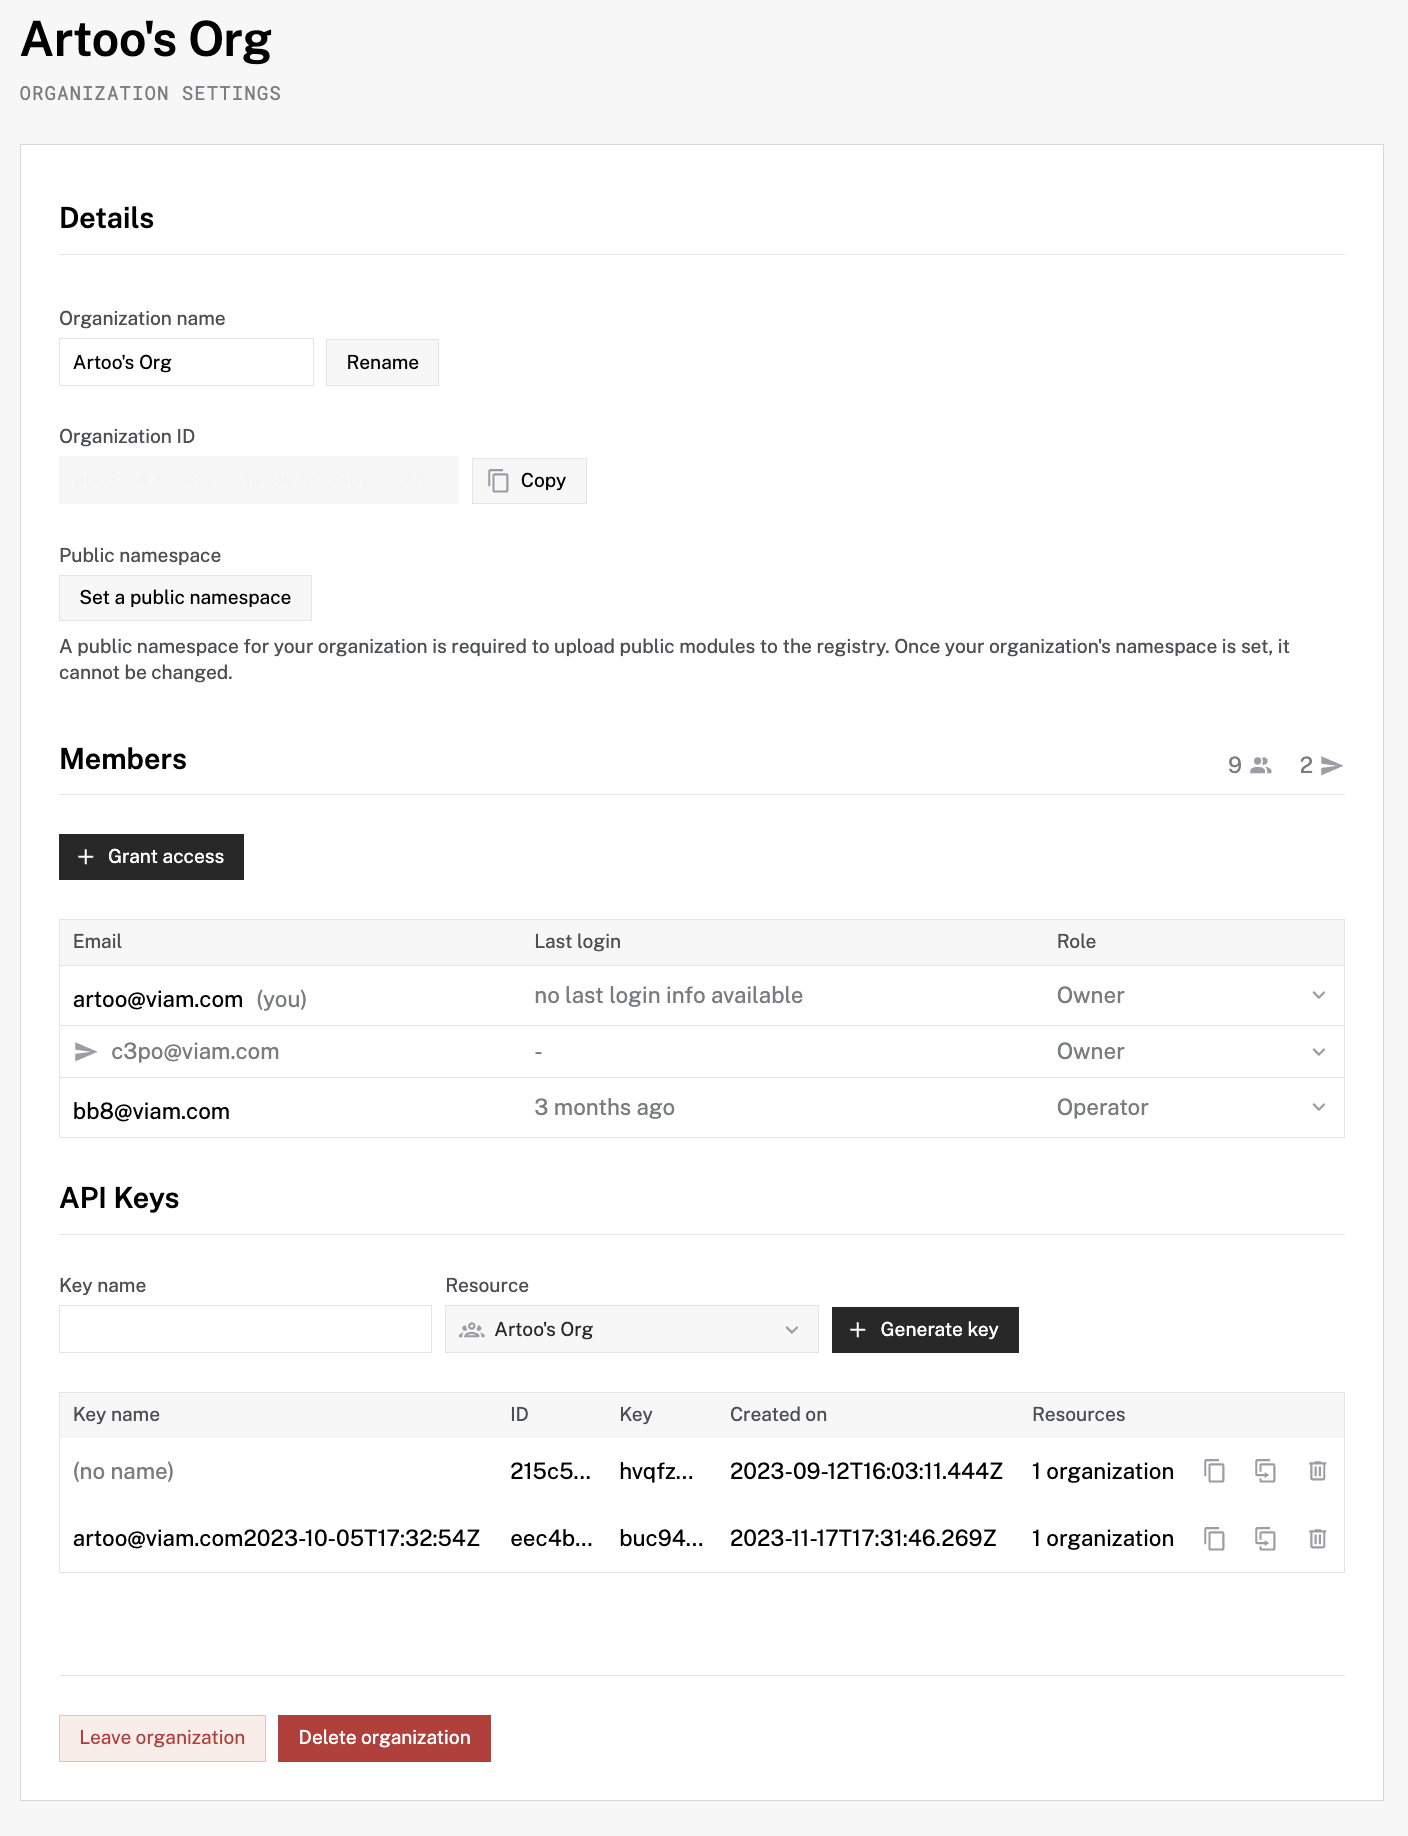
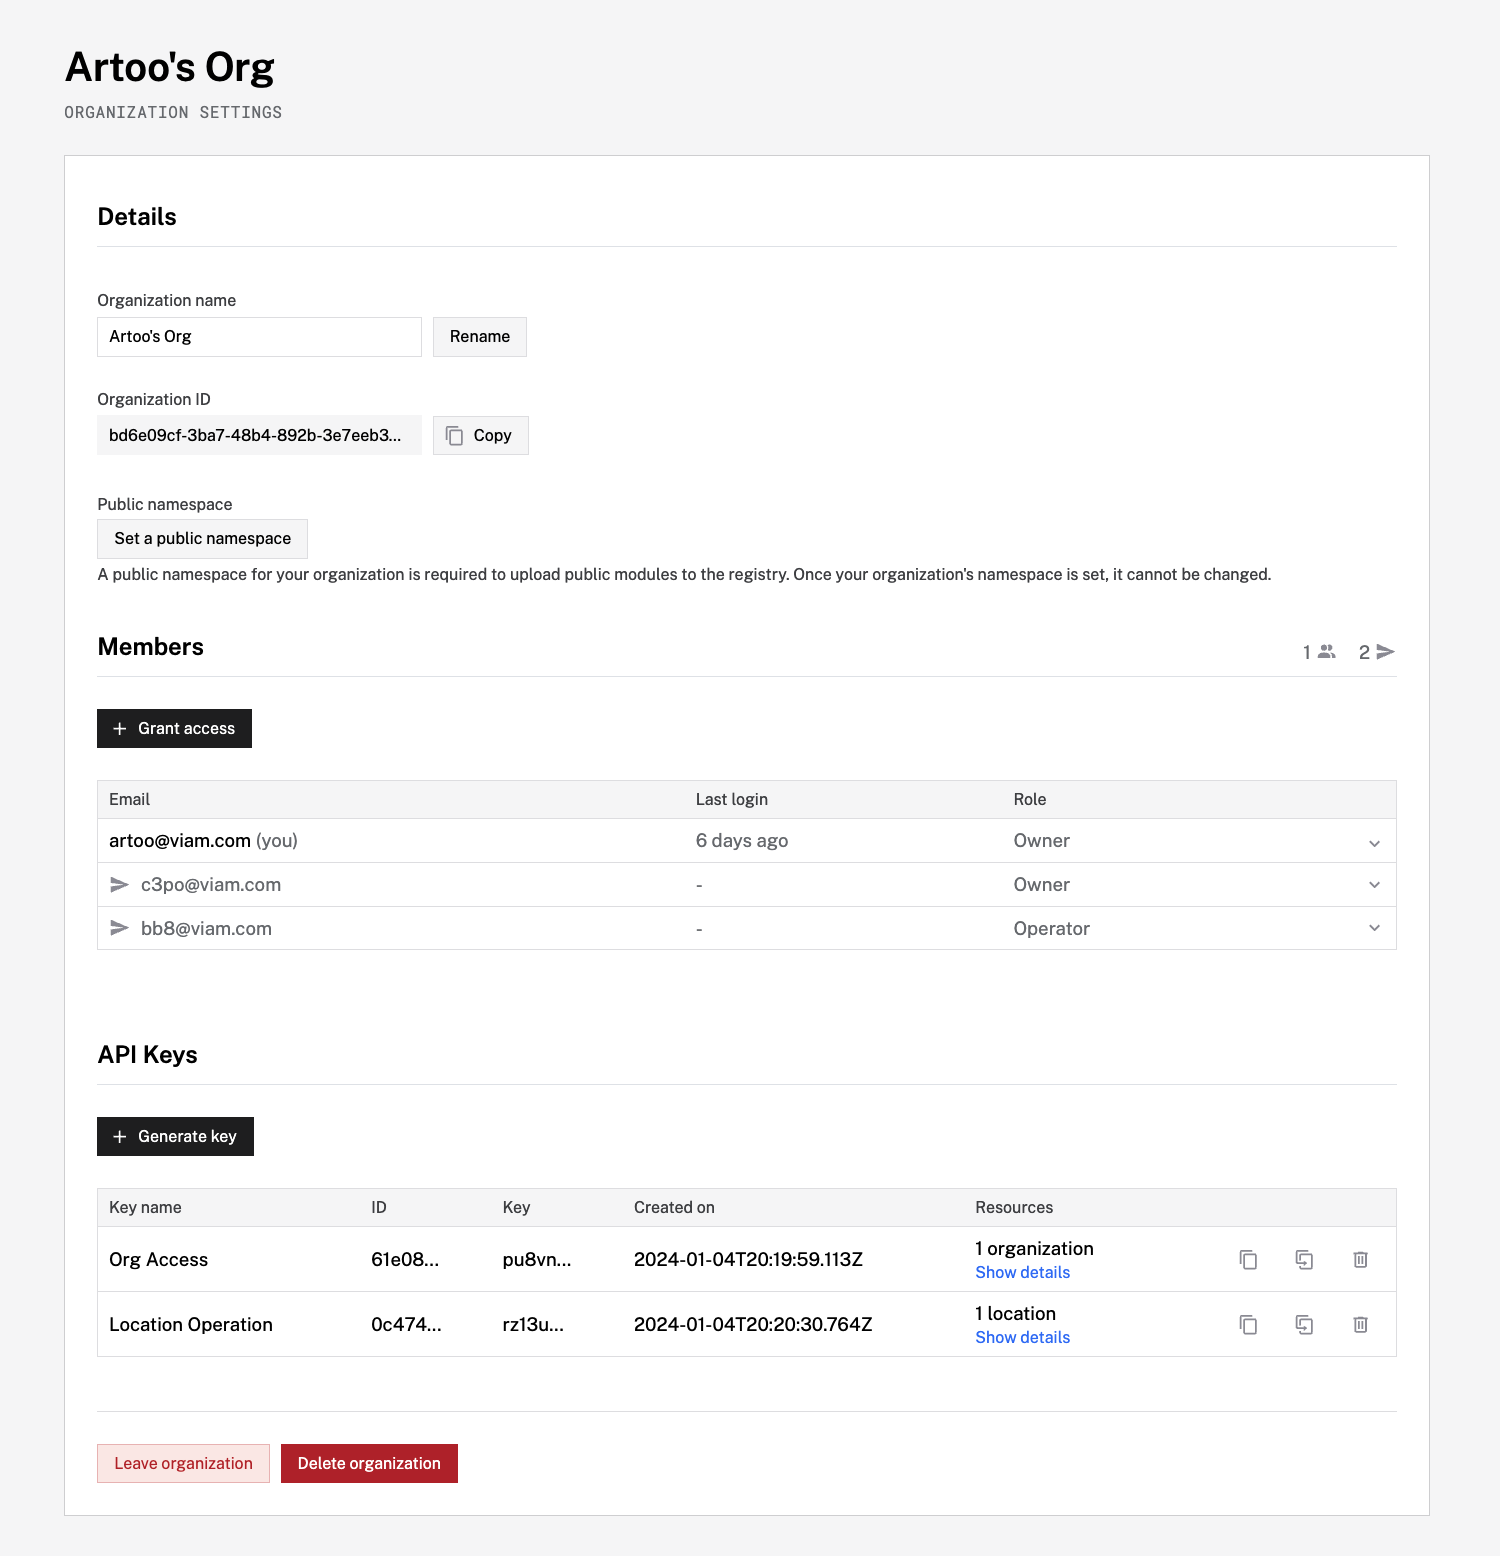
Add API keys details in RBAC

diff --git a/docs/fleet/rbac.md b/docs/fleet/rbac.md
@@ -50,6 +50,47 @@ For more information on the permissions the roles assign for each resource, see 
 The option to grant additional access is only visible if you can grant the user additional access.
 {{< /alert >}}
 
+## API keys
+
+API keys grant access to organizations, locations, and machines.
+If at the organization level, they grant access to all locations and machines contained within that organization.
+If at the location level, they grant access to all of the machines contained within that location.
+
+To view all API keys in use for your organization and the locations and machines inside it, click on the organization dropdown in the top navigation bar and click on **Settings**.
+
+View a table with each key, ID, name (if assigned), time created, and entities it provides access to:
+
+{{<imgproc src="/fleet/api-keys.png" resize="700x" declaredimensions=true alt="API Keys table">}}
+
+In each row, click the copy icon to copy the API key and key ID.
+Click the duplicate icon to duplicate the API key.
+Click the trash can icon to delete the API key.
+
+### Add an API key
+
+Click **Generate key** to generate a new key.
+Optionally, give the key a name of your choice.
+Click on the **Resource** menu and choose what organization, location, or robot you want the key to grant access to.
+For **Role**, assign either an **Owner** or **Operator** role.
+See [Permissions](#permissions) for information about the privilege each role entails at each resource level.
+
+### View an API key's details
+
+To view the role of an API key and what it grants access to, click on **Show details** in the key's row of the key table's **Resources** column:
+
+{{<imgproc src="/fleet/additional-details.png" resize="700x" declaredimensions=true alt="Additional details for a key">}}
+
+### Change an API key's access
+
+To edit an API key, click on **Show details** in the key's row of the key table's **Resources** column.
+
+To edit the role, click on the drop-down menu next to the role and select **Owner** or **Operator**.
+See [Permissions](#permissions) for information about the privilege each role entails at each resource level.
+
+To change the entities it is able to access, click **+ Grant additional access**.
+Select which organization, location, or robot you want the key to grant access to.
+Click **Choose** to confirm your selection.
+
 ## Permissions
 
 The following sections describe the permissions for each user role when it comes to managing robots, locations, organizations, fragments, and data.
